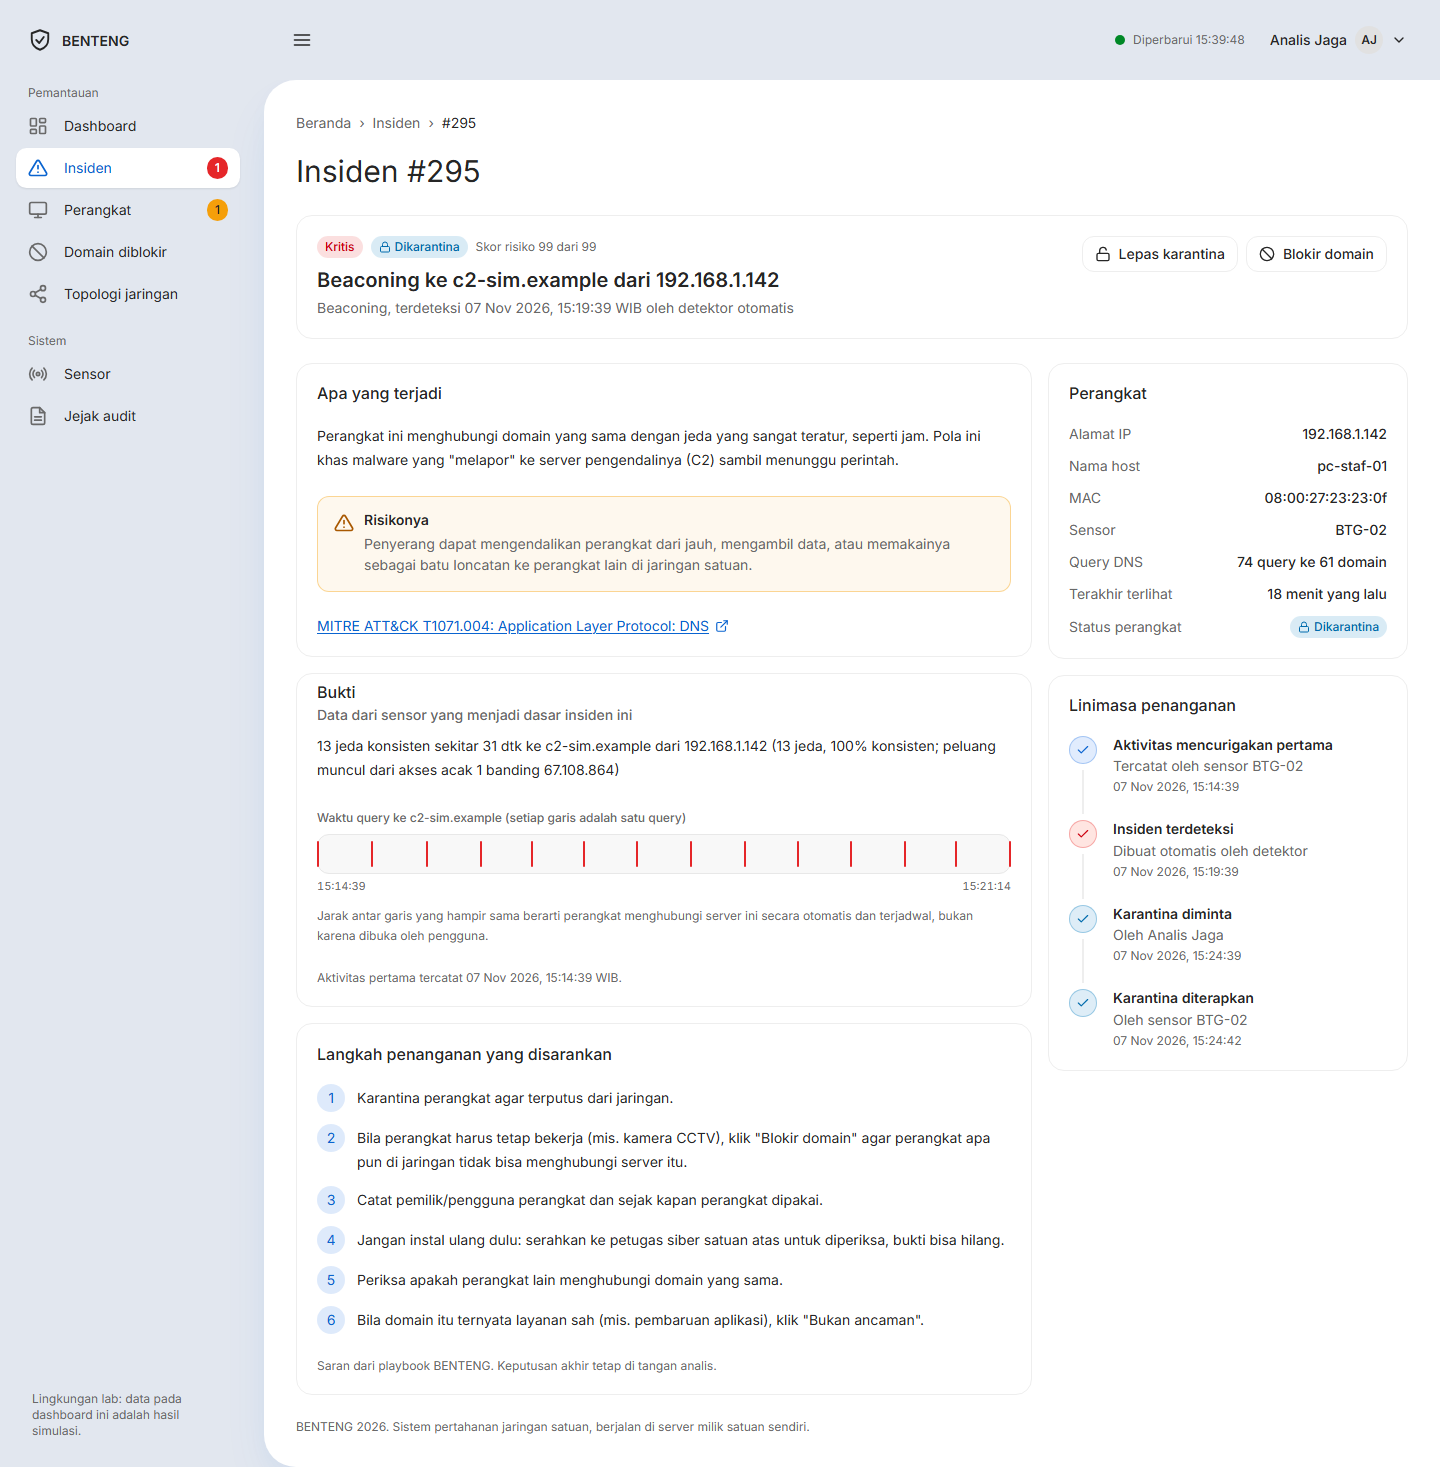
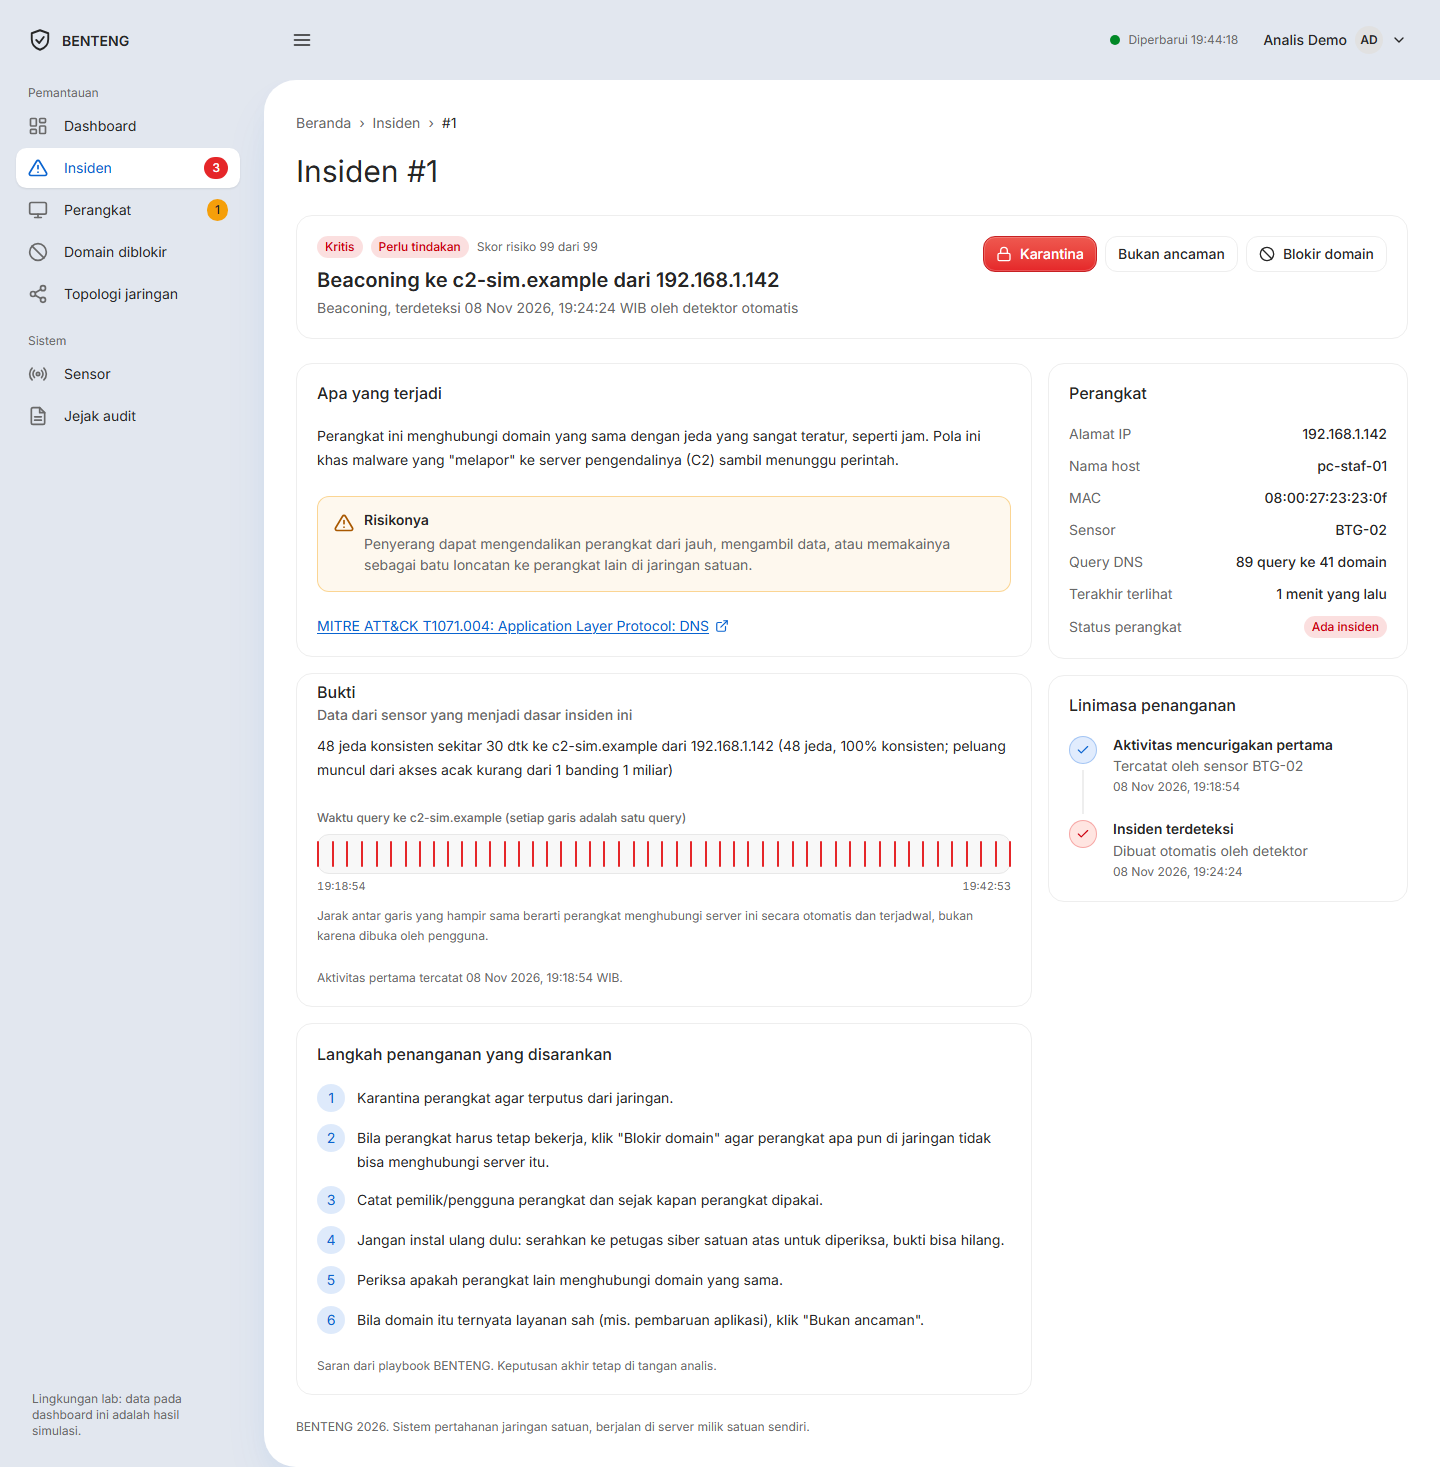
refactor: hapus uji simulasi CCTV
Simulator benteng-iot-sim.py dan panduan VM CCTV dihapus. Bagian H2
panduan sensor kini menguji blokir domain memakai insiden beaconing
dari VM korban. Data mode demo, README, teks dashboard, dan screenshot
dokumentasi tidak lagi memuat kamera CCTV. Skenario CCTV/IoT pada
evaluasi detektor sintetis tetap ada karena tidak bergantung pada lab.

diff --git a/benteng-server/app/Console/Commands/SiapkanDemoCommand.php b/benteng-server/app/Console/Commands/SiapkanDemoCommand.php
@@ -10,8 +10,8 @@ use Illuminate\Support\Facades\DB;
 
 /**
  * Menyiapkan BENTENG untuk dicoba juri tanpa sensor dan tanpa VM: akun demo, token
- * sensor, dan data simulasi 25 menit terakhir (beaconing, domain acak, CCTV yang
- * melapor ke cloud vendor, dan perangkat asing). Sensor ditiru oleh benteng:sensor-tiruan.
+ * sensor, dan data simulasi 25 menit terakhir (beaconing, domain acak, dan perangkat
+ * asing). Sensor ditiru oleh benteng:sensor-tiruan.
  *
  *   php artisan benteng:siapkan-demo
  *
@@ -100,11 +100,6 @@ class SiapkanDemoCommand extends Command
             $query('192.168.1.142', substr(str_shuffle('bcdfghjklmnpqrstvwxz'), 0, 14).'.example', $sekarang - 1400 + $i * 9);
         }
 
-        // Kamera CCTV yang melapor ke cloud vendor tiap ~60 detik.
-        for ($t = $sekarang - 1500; $t < $sekarang - 60; $t += 60 + random_int(-2, 2)) {
-            $query('192.168.1.187', 'litedev.hik-connect.com', $t);
-        }
-
         // PC staf lain yang dipakai normal.
         foreach (['www.detik.com', 'www.kompas.com', 'web.whatsapp.com', 'www.youtube.com', 'mail.google.com'] as $domain) {
             for ($k = 0; $k < 10; $k++) {
@@ -123,7 +118,6 @@ class SiapkanDemoCommand extends Command
         ];
         DB::table('perangkat')->insert([
             $perangkat('08:00:27:23:23:0f', '192.168.1.142', 'pc-staf-01', true, 3000),
-            $perangkat('44:19:b6:c0:a8:01', '192.168.1.187', 'DS-2CD2043G2-I', true, 3000),
             $perangkat('08:00:27:41:7a:10', '192.168.1.203', 'pc-staf-02', true, 3000),
             $perangkat('0a:3c:91:7d:e2:4f', '192.168.1.214', 'laptop-tamu', false, 300),
         ]);

diff --git a/benteng-server/resources/views/benteng/blokir.blade.php b/benteng-server/resources/views/benteng/blokir.blade.php
@@ -106,7 +106,7 @@
             <ul class="flex flex-col gap-4 text-sm leading-6">
                 <li class="flex gap-3">
                     <span class="icon-box icon-box--sm icon-box--info shrink-0"><x-ikon nama="larangan" class="size-3.5" /></span>
-                    <span><strong class="font-semibold">Blokir domain</strong> untuk perangkat yang harus tetap bekerja, seperti CCTV. Hanya koneksi ke domain itu yang diputus, untuk seluruh jaringan.</span>
+                    <span><strong class="font-semibold">Blokir domain</strong> untuk perangkat yang harus tetap bekerja. Hanya koneksi ke domain itu yang diputus, untuk seluruh jaringan.</span>
                 </li>
                 <li class="flex gap-3">
                     <span class="icon-box icon-box--sm icon-box--danger shrink-0"><x-ikon nama="kunci" class="size-3.5" /></span>

diff --git a/benteng-server/tests/Feature/ModeDemoTest.php b/benteng-server/tests/Feature/ModeDemoTest.php
@@ -39,7 +39,7 @@ class ModeDemoTest extends TestCase
         $this->assertDatabaseHas('users', ['email' => 'pengamat@demo.local', 'peran' => 'pengamat']);
         $this->assertDatabaseMissing('incidents', ['judul' => 'Insiden lama']);
         $this->assertDatabaseHas('incidents', ['jenis' => 'beaconing', 'client_ip' => '192.168.1.142', 'status' => 'baru']);
-        $this->assertDatabaseHas('incidents', ['jenis' => 'beaconing', 'client_ip' => '192.168.1.187', 'status' => 'baru']);
+        $this->assertDatabaseMissing('incidents', ['client_ip' => '192.168.1.203']);
         $this->assertDatabaseHas('incidents', ['jenis' => 'dga', 'client_ip' => '192.168.1.142']);
         $this->assertDatabaseHas('incidents', ['jenis' => 'perangkat_asing', 'client_ip' => '192.168.1.214']);
         $this->assertDatabaseCount('commands', 0);

diff --git a/benteng-server/config/benteng.php b/benteng-server/config/benteng.php
@@ -53,7 +53,7 @@ return [
                 .'sebagai batu loncatan ke perangkat lain di jaringan satuan.',
             'langkah' => [
                 'Karantina perangkat agar terputus dari jaringan.',
-                'Bila perangkat harus tetap bekerja (mis. kamera CCTV), klik "Blokir domain" agar perangkat apa pun di jaringan tidak bisa menghubungi server itu.',
+                'Bila perangkat harus tetap bekerja, klik "Blokir domain" agar perangkat apa pun di jaringan tidak bisa menghubungi server itu.',
                 'Catat pemilik/pengguna perangkat dan sejak kapan perangkat dipakai.',
                 'Jangan instal ulang dulu: serahkan ke petugas siber satuan atas untuk diperiksa, bukti bisa hilang.',
                 'Periksa apakah perangkat lain menghubungi domain yang sama.',

diff --git a/benteng-server/docs/PANDUAN-SENSOR.md b/benteng-server/docs/PANDUAN-SENSOR.md
@@ -425,61 +425,16 @@ scp -O sensor\benteng-banner root@192.168.56.20:/etc/banner
 
 ---
 
-## H2. Simulasi kamera CCTV dan blokir domain
+## H2. Uji blokir domain
 
-Tidak perlu kamera sungguhan. Sensor hanya melihat MAC, nama host, dan query DNS, jadi VM
-kecil yang meniru jejak itu sudah cukup. Skrip hanya menanyakan nama domain, tidak membuka
-koneksi ke server vendor. Sebutkan bahwa ini simulasi saat demo.
+Blokir domain memutus satu domain untuk seluruh jaringan tanpa memutus perangkatnya. Uji ini
+memakai insiden beaconing dari langkah H.
 
-**1. Salin VM korban.** Matikan VM korban dulu (`poweroff` di dalamnya), lalu di **PowerShell**:
+1. Buka detail insiden **Beaconing ke c2-sim.example**, klik **Blokir domain** → **Ya, blokir domain**.
+2. Dalam beberapa detik, status insiden menjadi *Domain diblokir*. Di menu **Domain diblokir**, statusnya *Aktif*.
+3. Bukti di **sensor**: `logread | grep c2-sim | tail -3`. Baris `config c2-sim.example is NXDOMAIN` berarti jawabannya berasal dari daftar blokir BENTENG.
 
-```powershell
-$VBox = "C:\Program Files\Oracle\VirtualBox\VBoxManage.exe"
-& $VBox clonevm benteng-korban --name benteng-cctv --register
-& $VBox modifyvm benteng-cctv --memory 192 --nic1 intnet --intnet1 benteng-lan --macaddress1 4419B6C0A801
-& $VBox startvm benteng-korban
-& $VBox startvm benteng-cctv
-```
-
-`44:19:B6` adalah prefix MAC resmi Hikvision.
-
-**2. Ubah nama host.** Di **konsol VM `benteng-cctv`**:
-
-```sh
-echo DS-2CD2043G2-I > /etc/hostname
-hostname -F /etc/hostname
-sed -i 's/benteng-korban/DS-2CD2043G2-I/g' /etc/hosts /etc/network/interfaces
-rc-service networking restart
-ip addr show eth0 | grep 'inet '
-```
-
-**3. Pasang simulator.** Salin lewat web server sensor (**PowerShell**, folder `benteng-starter`):
-
-```powershell
-scp -O uji\benteng-iot-sim.py root@192.168.56.20:/www/
-```
-
-Di **konsol VM `benteng-cctv`**:
-
-```sh
-wget -O /root/benteng-iot-sim.py http://192.168.1.1/benteng-iot-sim.py
-printf '#!/bin/sh\npython3 /root/benteng-iot-sim.py --profil cctv-hikvision > /var/log/benteng-iot.log 2>&1 &\n' > /etc/local.d/benteng-iot.start
-chmod +x /etc/local.d/benteng-iot.start
-rc-update add local default
-rc-service local restart
-```
-
-Hapus salinannya dari sensor: `ssh root@192.168.56.20 "rm /www/benteng-iot-sim.py"`.
-
-**4. Yang seharusnya terlihat di dashboard:**
-
-1. Dalam sekitar 1 menit, muncul perangkat `DS-2CD2043G2-I` berstatus *Belum dikenal* dan insiden perangkat asing. Klik **Daftarkan sah**.
-2. Dalam sekitar 5–6 menit, muncul insiden **Beaconing ke litedev.hik-connect.com**.
-3. Buka detail insiden, klik **Blokir domain** → **Ya, blokir domain**.
-4. Dalam beberapa detik, status insiden menjadi *Domain diblokir* dan perangkat tetap *Normal*. Di menu **Domain diblokir**, statusnya *Aktif*.
-5. Bukti di **konsol VM `benteng-cctv`**: `nslookup litedev.hik-connect.com` menjawab `NXDOMAIN`.
-
-Kalau VM korban ikut menanyakan domain yang sama (`nslookup litedev.hik-connect.com` di VM korban), dalam 1–2 menit muncul insiden baru: perangkat lain mencoba menghubungi domain terblokir.
+Kalau ada perangkat lain di jaringan yang ikut menanyakan domain itu, dalam 1–2 menit muncul insiden baru: perangkat lain mencoba menghubungi domain terblokir.
 
 ---
 

diff --git a/README.md b/README.md
@@ -22,13 +22,11 @@ Sensor murah berbasis OpenWrt dipasang di gerbang jaringan satuan. Sensor mengen
 | **Pencegahan** | Satu klik memblokir domain di DNS sensor untuk semua perangkat. Perangkat lain yang masih mencoba menghubunginya otomatis dilaporkan sebagai insiden baru. |
 | **Akuntabilitas** | Login dengan peran analis dan pengamat. Setiap tindakan masuk jejak audit atas nama akun. |
 
-Skenario IT/OT: kamera CCTV milik satuan yang rutin melapor ke server vendor di luar negeri bisa diblokir domainnya tanpa memutus kamera dari jaringan.
-
 ## Arsitektur
 
 ```mermaid
 flowchart LR
-    P["Perangkat satuan<br/>PC, CCTV, IoT"] -->|"DNS + DHCP"| S["Sensor BENTENG<br/>OpenWrt"]
+    P["Perangkat satuan<br/>PC, laptop, IoT"] -->|"DNS + DHCP"| S["Sensor BENTENG<br/>OpenWrt"]
     S -->|"Log DNS dan daftar DHCP<br/>tiap menit"| L["Server pusat on-premise<br/>Laravel + SQLite"]
     L -->|"Perintah karantina dan<br/>daftar blokir, tiap 5 detik"| S
     A["Analis"] <-->|"Dashboard"| L
@@ -74,7 +72,7 @@ Buka `http://localhost:8000` dan masuk dengan salah satu akun demo:
 | `analis@demo.local` | `analis-demo` | Analis: bisa mengarantina, memblokir domain, dan menutup insiden |
 | `pengamat@demo.local` | `pengamat-demo` | Pengamat: hanya melihat |
 
-Mode demo berisi data simulasi 25 menit terakhir: PC staf yang terinfeksi (beaconing dan domain acak), kamera CCTV yang melapor ke cloud vendor, dan laptop tamu yang belum dikenal. Sensornya ditiru oleh server, jadi karantina dan blokir domain "diterapkan" sekitar 2 detik setelah diklik. Pada lab sungguhan, perintah yang sama dijalankan oleh sensor OpenWrt (2-4 detik untuk karantina).
+Mode demo berisi data simulasi 25 menit terakhir: PC staf yang terinfeksi (beaconing dan domain acak), PC staf lain yang normal, dan laptop tamu yang belum dikenal. Sensornya ditiru oleh server, jadi karantina dan blokir domain "diterapkan" sekitar 2 detik setelah diklik. Pada lab sungguhan, perintah yang sama dijalankan oleh sensor OpenWrt (2-4 detik untuk karantina).
 
 Uji kualitas detektor dan test otomatis, dari folder yang sama:
 
